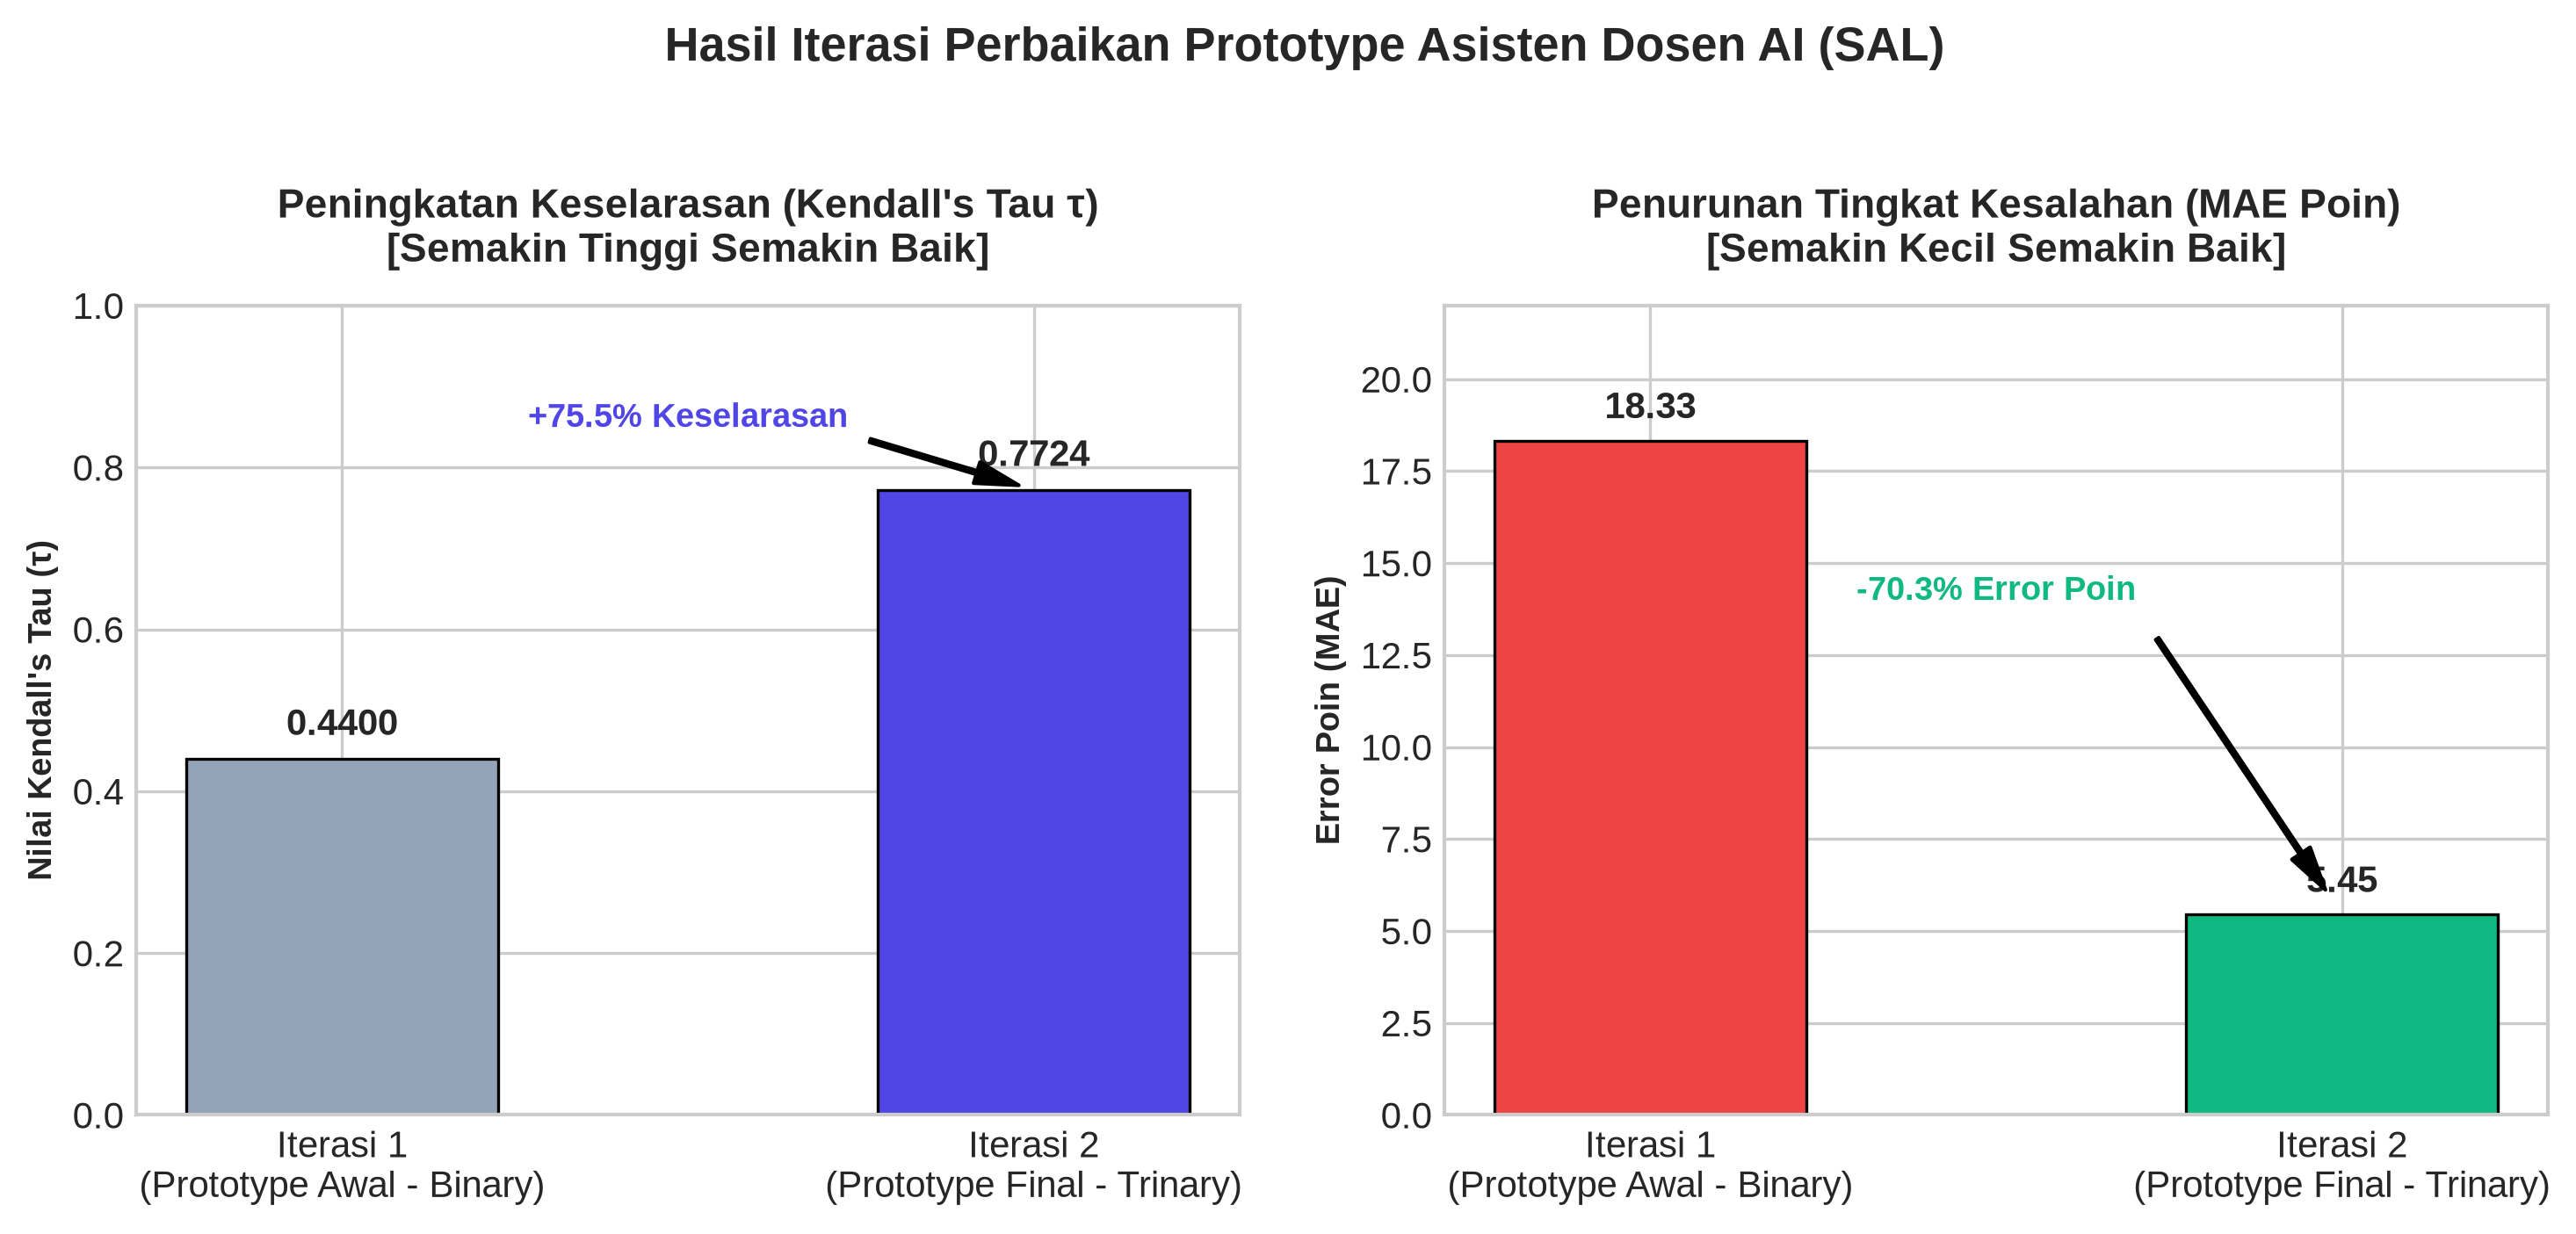
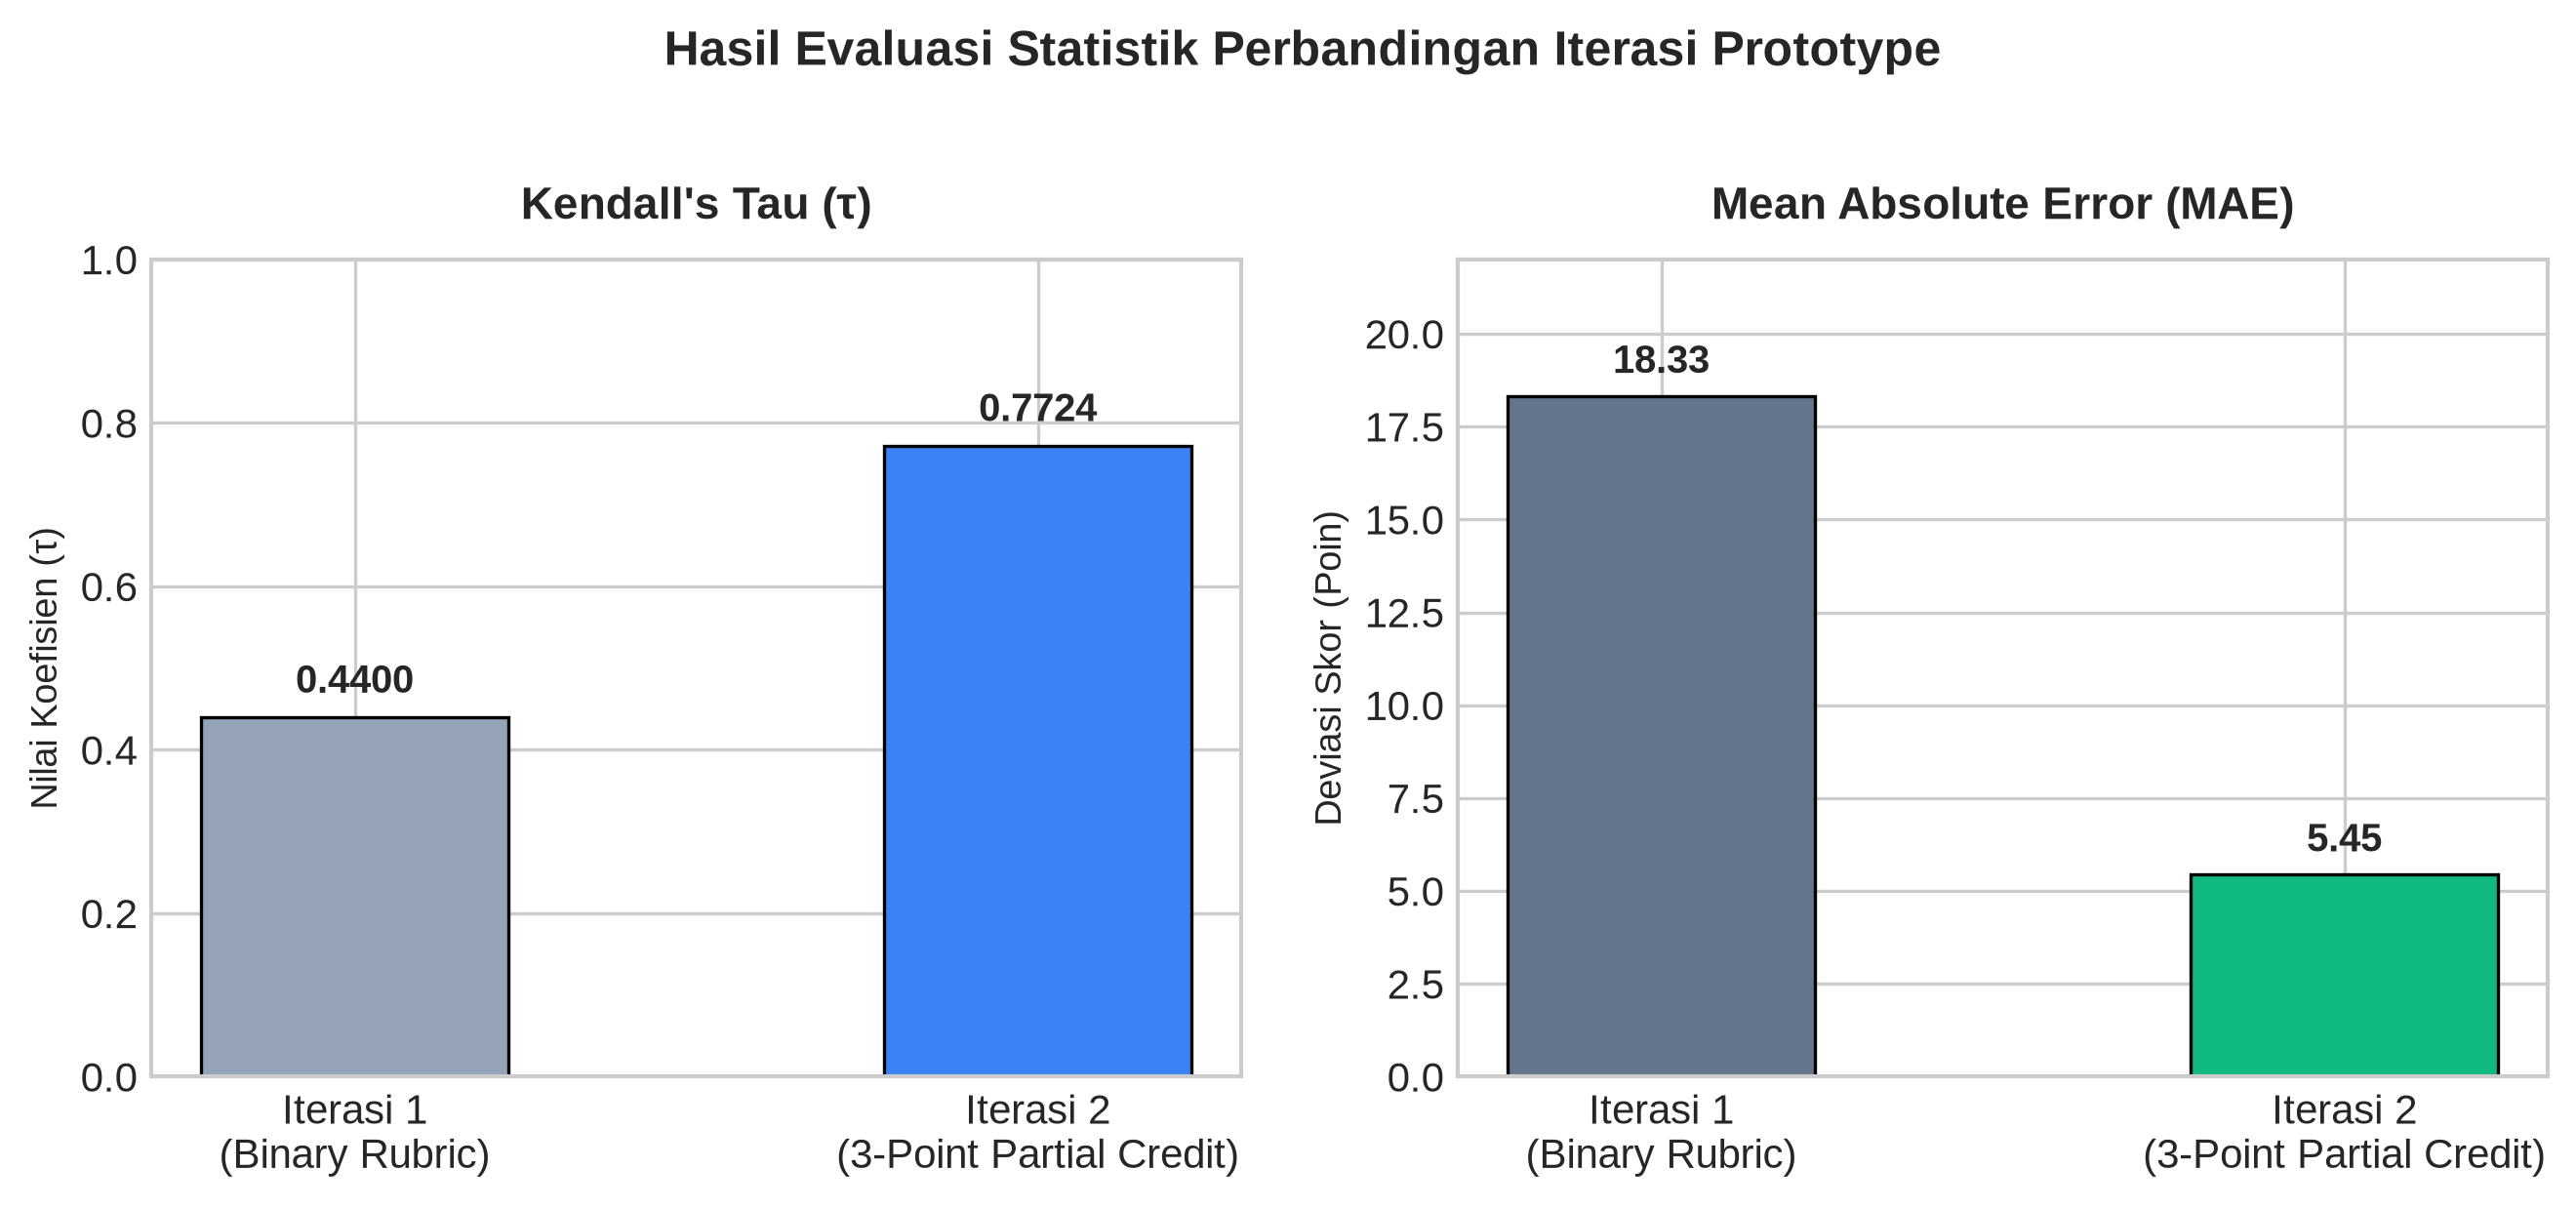
docs: simplify Bab IV text to concise academic prose and update chart labels to 3-Point Partial Credit

diff --git a/scratch/generate_charts_iterasi.py b/scratch/generate_charts_iterasi.py
@@ -1,52 +1,40 @@
 import matplotlib.pyplot as plt
-import numpy as np
 
-# Set clean aesthetic style
+# Styling formal akademik
 plt.style.use('seaborn-v0_8-whitegrid' if 'seaborn-v0_8-whitegrid' in plt.style.available else 'default')
 
-# Data comparison for Prototyping Iterations
-iterations = ['Iterasi 1\n(Prototype Awal - Binary)', 'Iterasi 2\n(Prototype Final - Trinary)']
+iterations = ['Iterasi 1\n(Binary Rubric)', 'Iterasi 2\n(3-Point Partial Credit)']
 kendall_tau = [0.4400, 0.7724]
 mae_values = [18.33, 5.45]
 
-colors_tau = ['#94a3b8', '#4f46e5'] # Muted slate for Iteration 1, Indigo for Iteration 2 (Final)
-colors_mae = ['#ef4444', '#10b981'] # Red for High Error (Iter 1), Green for Low Error (Iter 2)
+colors_tau = ['#94a3b8', '#3b82f6'] # Slate & Standard Blue
+colors_mae = ['#64748b', '#10b981'] # Slate & Emerald Green
 
-fig, (ax1, ax2) = plt.subplots(1, 2, figsize=(10, 4.5), dpi=300)
+fig, (ax1, ax2) = plt.subplots(1, 2, figsize=(9, 4), dpi=300)
 
-# Chart 1: Kendall Tau Progress
+# Chart 1: Kendall's Tau (τ)
 bars1 = ax1.bar(iterations, kendall_tau, color=colors_tau, width=0.45, edgecolor='black', linewidth=0.8)
-ax1.set_title("Peningkatan Keselarasan (Kendall's Tau τ)\n[Semakin Tinggi Semakin Baik]", fontsize=11, fontweight='bold', pad=12)
-ax1.set_ylabel("Nilai Kendall's Tau (τ)", fontsize=9, fontweight='bold')
+ax1.set_title("Kendall's Tau (τ)", fontsize=11, fontweight='bold', pad=10)
+ax1.set_ylabel("Nilai Koefisien (τ)", fontsize=9)
 ax1.set_ylim(0, 1.0)
 
 for bar in bars1:
     yval = bar.get_height()
-    ax1.text(bar.get_x() + bar.get_width()/2.0, yval + 0.02, f"{yval:.4f}", ha='center', va='bottom', fontsize=10, fontweight='bold')
+    ax1.text(bar.get_x() + bar.get_width()/2.0, yval + 0.02, f"{yval:.4f}", ha='center', va='bottom', fontsize=9.5, fontweight='bold')
 
-# Add improvement annotation
-ax1.annotate('+75.5% Keselarasan', xy=(1, 0.7724), xytext=(0.5, 0.85),
-             arrowprops=dict(facecolor='black', shrink=0.08, width=1, headwidth=6),
-             fontsize=9, fontweight='bold', ha='center', color='#4f46e5')
-
-# Chart 2: MAE Error Reduction Progress
+# Chart 2: MAE (Poin)
 bars2 = ax2.bar(iterations, mae_values, color=colors_mae, width=0.45, edgecolor='black', linewidth=0.8)
-ax2.set_title("Penurunan Tingkat Kesalahan (MAE Poin)\n[Semakin Kecil Semakin Baik]", fontsize=11, fontweight='bold', pad=12)
-ax2.set_ylabel("Error Poin (MAE)", fontsize=9, fontweight='bold')
+ax2.set_title("Mean Absolute Error (MAE)", fontsize=11, fontweight='bold', pad=10)
+ax2.set_ylabel("Deviasi Skor (Poin)", fontsize=9)
 ax2.set_ylim(0, 22.0)
 
 for bar in bars2:
     yval = bar.get_height()
-    ax2.text(bar.get_x() + bar.get_width()/2.0, yval + 0.4, f"{yval:.2f}", ha='center', va='bottom', fontsize=10, fontweight='bold')
+    ax2.text(bar.get_x() + bar.get_width()/2.0, yval + 0.4, f"{yval:.2f}", ha='center', va='bottom', fontsize=9.5, fontweight='bold')
 
-# Add reduction annotation
-ax2.annotate('-70.3% Error Poin', xy=(1, 5.45), xytext=(0.5, 14.0),
-             arrowprops=dict(facecolor='black', shrink=0.08, width=1, headwidth=6),
-             fontsize=9, fontweight='bold', ha='center', color='#10b981')
-
-plt.suptitle("Hasil Iterasi Perbaikan Prototype Asisten Dosen AI (SAL)", fontsize=13, fontweight='bold', y=1.03)
+plt.suptitle("Hasil Evaluasi Statistik Perbandingan Iterasi Prototype", fontsize=12, fontweight='bold', y=1.02)
 plt.tight_layout()
 
 chart_path = "/home/alexa/Documents/SKRIPSI/project/sal/docs/grafik_iterasi_prototype.png"
 plt.savefig(chart_path, bbox_inches='tight')
-print(f"Grafik Iterasi Prototype berhasil disimpan ke {chart_path}")
+print(f"Grafik Iterasi berhasil diperbarui: {chart_path}")